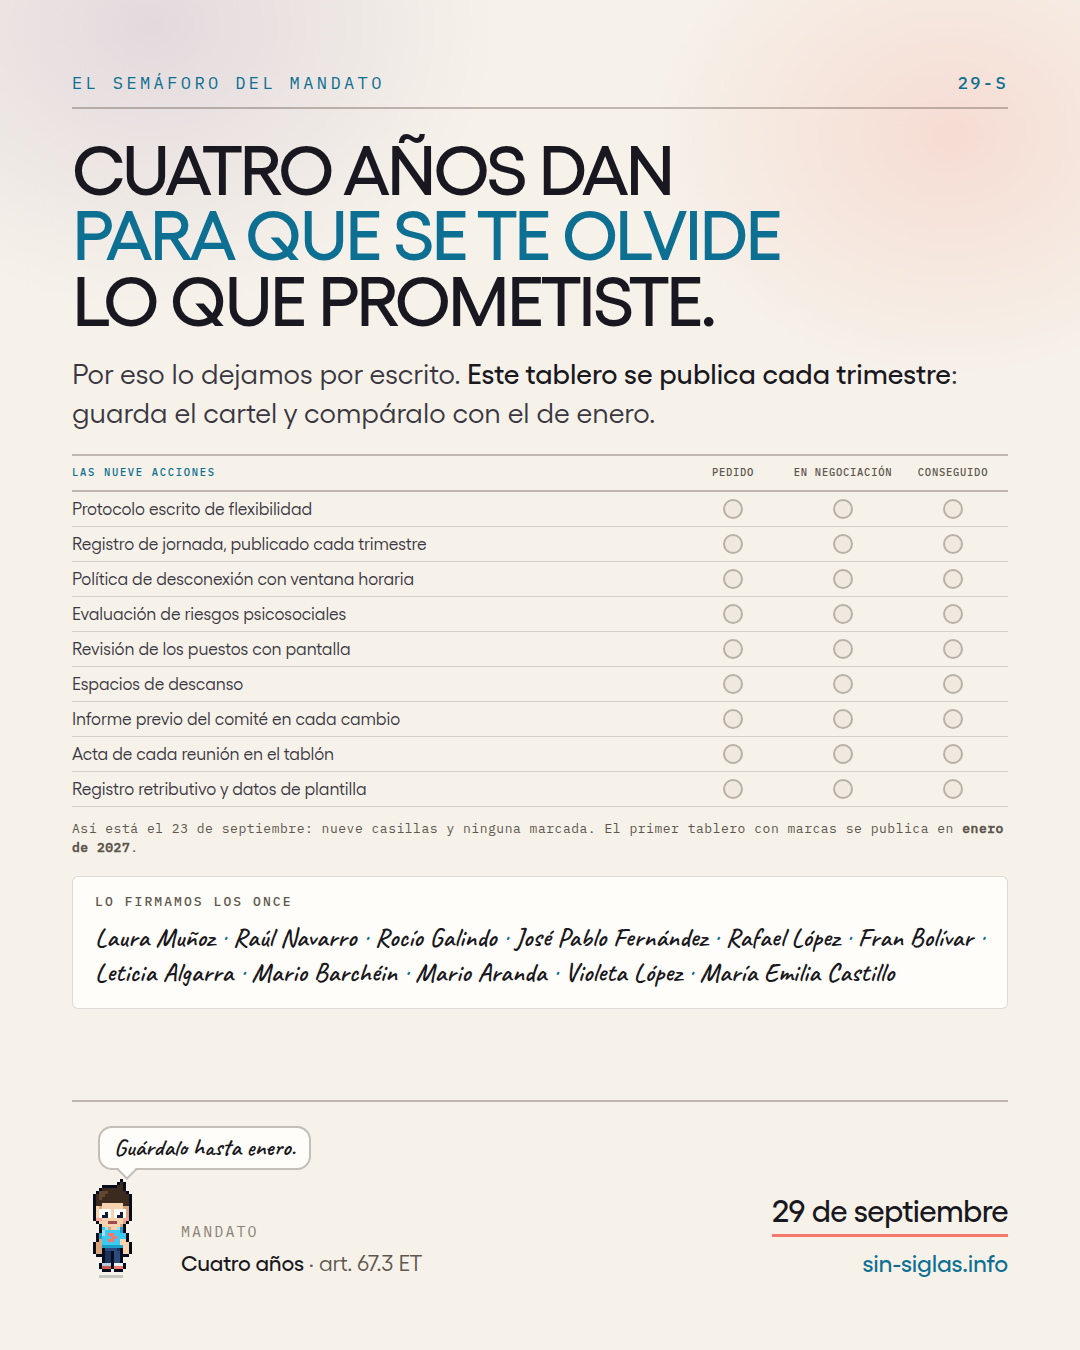
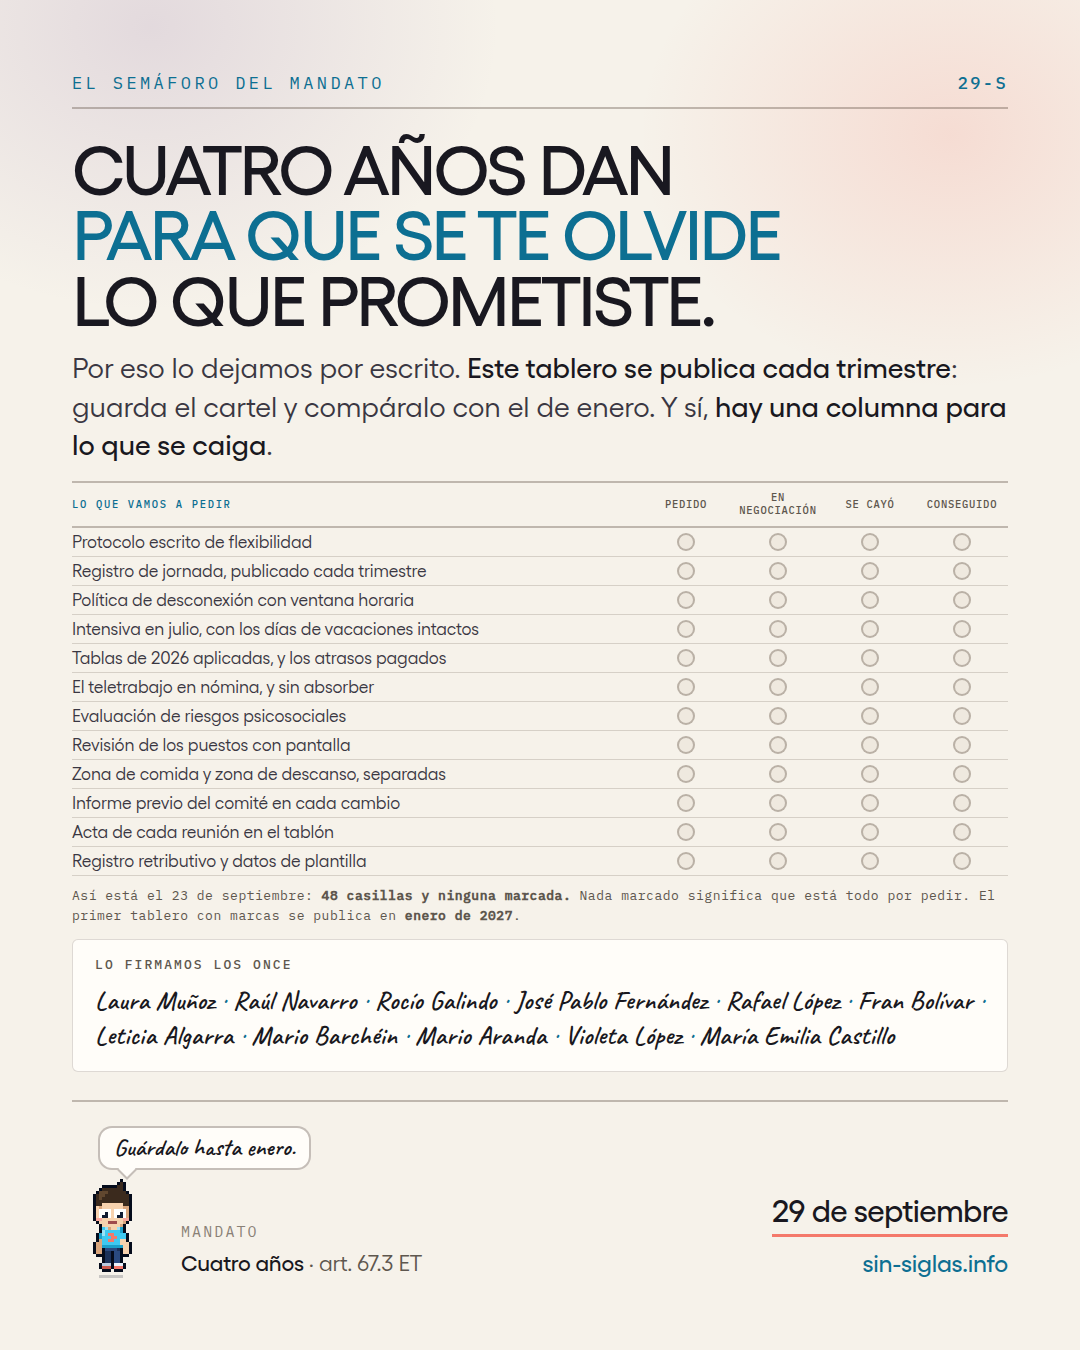
El semáforo, bien contado y con la columna del fracaso
Cuatro fallos en la única pieza que es un contrato:

- Decía «nueve casillas y ninguna marcada». Eran nueve filas por tres
  columnas: veintisiete. Contar mal aquí es lo último que se puede hacer.
- Tenía tres columnas y el apartado 4.2 especifica cuatro estados.
  Faltaba «se cayó», que es la que sostiene toda la tesis: un tablero sin
  columna para el fracaso es un folleto.
- Titulaba «las nueve acciones» y lo-que-pedimos lleva doce. Ahora la
  cabecera no lleva número y el número duro va en la leyenda.
- No tenía ni una fila de dinero, que es el tema de cinco de las once
  respuestas del buzón. En enero no se habría podido comprobar en lo
  único que la gente pidió.

Queda en cuatro columnas, doce filas, 48 casillas y ninguna marcada. Con
tres filas nuevas: las tablas de 2026 y sus atrasos, el teletrabajo en
nómina y sin absorber, y la intensiva de julio con los días de vacaciones
intactos. Y la bajada lo dice en voz alta: «y sí, hay una columna para lo
que se caiga».

Y una elegancia que sale de las cuatro columnas: nada marcado significa
que está todo por pedir, así que el cuarto estado del documento —«todavía
por pedir»— no necesita columna. Es la ausencia de marca.

Changed region(s): [[0.0611, 0.2489, 0.9472, 0.7778]]

diff --git a/carteles/carteles.html b/carteles/carteles.html
@@ -303,8 +303,8 @@ body.diptico .cartel.elegido + .cartel.elegido{box-shadow:inset 2px 0 0 var(--li
 /* 07 · el tablero del mandato y las firmas */
 .tablero{margin-top:22px;border-top:2px solid var(--linea-fuerte)}
 .fila{
-  display:grid;grid-template-columns:1fr repeat(3,110px);align-items:center;gap:0;
-  border-bottom:1px solid var(--linea);padding:7px 0
+  display:grid;grid-template-columns:1fr repeat(4,92px);align-items:center;gap:0;
+  border-bottom:1px solid var(--linea);padding:6px 0
 }
 .fila--cabeza{border-bottom:2px solid var(--linea-fuerte);padding:10px 0}
 .fila--cabeza span{
@@ -787,6 +787,18 @@ body.diptico .cartel.elegido + .cartel.elegido{box-shadow:inset 2px 0 0 var(--li
 #c24 .limite{margin-top:48px}
 #c24 .recibo{margin-top:32px}
 #c24 .pie{margin-top:auto}
+
+/* 07 · con la cuarta columna y las tres filas nuevas el tablero va al
+   ras. Lo que cede son los huecos, no el cuerpo: este cartel se guarda
+   para compararlo en enero, así que tiene que poder leerse en papel */
+#c7 .bajada{margin-top:16px}
+#c7 .tablero{margin-top:16px}
+#c7 .fila{padding:4px 0}
+#c7 .fila--cabeza{padding:8px 0}
+#c7 .fila i{width:18px;height:18px}
+#c7 .leyenda{margin-top:10px}
+#c7 .firmas{margin-top:14px}
+#c7 .pie{margin-top:auto}
 </style>
 </head>
 <body>
@@ -2292,26 +2304,30 @@ body.diptico .cartel.elegido + .cartel.elegido{box-shadow:inset 2px 0 0 var(--li
 
   <h1 class="titular titular--largo">Cuatro años dan<em>para que se te olvide</em>lo que prometiste.</h1>
   <p class="bajada bajada--ancha">
-    Por eso lo dejamos por escrito. <b>Este tablero se publica cada trimestre</b>: guarda el
-    cartel y compáralo con el de enero.
+    Por eso lo dejamos por escrito. <b>Este tablero se publica cada trimestre</b>: guarda el cartel
+    y compáralo con el de enero. Y sí, <b>hay una columna para lo que se caiga</b>.
   </p>
 
   <div class="tablero">
     <div class="fila fila--cabeza">
-      <span>Las nueve acciones</span><span>Pedido</span><span>En negociación</span><span>Conseguido</span>
+      <span>Lo que vamos a pedir</span><span>Pedido</span><span>En negociación</span><span>Se cayó</span><span>Conseguido</span>
     </div>
-    <div class="fila"><b>Protocolo escrito de flexibilidad</b><i></i><i></i><i></i></div>
-    <div class="fila"><b>Registro de jornada, publicado cada trimestre</b><i></i><i></i><i></i></div>
-    <div class="fila"><b>Política de desconexión con ventana horaria</b><i></i><i></i><i></i></div>
-    <div class="fila"><b>Evaluación de riesgos psicosociales</b><i></i><i></i><i></i></div>
-    <div class="fila"><b>Revisión de los puestos con pantalla</b><i></i><i></i><i></i></div>
-    <div class="fila"><b>Espacios de descanso</b><i></i><i></i><i></i></div>
-    <div class="fila"><b>Informe previo del comité en cada cambio</b><i></i><i></i><i></i></div>
-    <div class="fila"><b>Acta de cada reunión en el tablón</b><i></i><i></i><i></i></div>
-    <div class="fila"><b>Registro retributivo y datos de plantilla</b><i></i><i></i><i></i></div>
+    <div class="fila"><b>Protocolo escrito de flexibilidad</b><i></i><i></i><i></i><i></i></div>
+    <div class="fila"><b>Registro de jornada, publicado cada trimestre</b><i></i><i></i><i></i><i></i></div>
+    <div class="fila"><b>Política de desconexión con ventana horaria</b><i></i><i></i><i></i><i></i></div>
+    <div class="fila"><b>Intensiva en julio, con los días de vacaciones intactos</b><i></i><i></i><i></i><i></i></div>
+    <div class="fila"><b>Tablas de 2026 aplicadas, y los atrasos pagados</b><i></i><i></i><i></i><i></i></div>
+    <div class="fila"><b>El teletrabajo en nómina, y sin absorber</b><i></i><i></i><i></i><i></i></div>
+    <div class="fila"><b>Evaluación de riesgos psicosociales</b><i></i><i></i><i></i><i></i></div>
+    <div class="fila"><b>Revisión de los puestos con pantalla</b><i></i><i></i><i></i><i></i></div>
+    <div class="fila"><b>Zona de comida y zona de descanso, separadas</b><i></i><i></i><i></i><i></i></div>
+    <div class="fila"><b>Informe previo del comité en cada cambio</b><i></i><i></i><i></i><i></i></div>
+    <div class="fila"><b>Acta de cada reunión en el tablón</b><i></i><i></i><i></i><i></i></div>
+    <div class="fila"><b>Registro retributivo y datos de plantilla</b><i></i><i></i><i></i><i></i></div>
   </div>
-  <p class="leyenda">Así está el 23 de septiembre: nueve casillas y ninguna marcada. El primer
-    tablero con marcas se publica en <b>enero de 2027</b>.</p>
+  <p class="leyenda">Así está el 23 de septiembre: <b>48 casillas y ninguna marcada.</b> Nada
+    marcado significa que está todo por pedir. El primer tablero con marcas se publica en
+    <b>enero de 2027</b>.</p>
 
   <div class="firmas">
     <h4>Lo firmamos los once</h4>

diff --git a/carteles/ESTRATEGIA.md b/carteles/ESTRATEGIA.md
@@ -104,6 +104,29 @@ publicaremos cada trimestre durante los cuatro años: cada acción de los tres c
 El cartel muestra el tablero **con todo en gris**, tal y como está el día 23: nada pedido
 todavía. Convierte *«os iremos contando»* en un objeto que se puede comparar con el de enero.
 
+**Y estuvo mal contado y mal montado hasta el 9 de septiembre.** Cuatro cosas, y las cuatro
+importan en la única pieza que es un contrato:
+
+1. Decía «**nueve casillas** y ninguna marcada». Eran nueve filas por tres columnas: **veintisiete
+   casillas**. Contar mal en el cartel-contrato es lo último que nos podemos permitir.
+2. Tenía **tres columnas** —pedido, en negociación, conseguido— cuando este apartado especifica
+   cuatro estados. **Faltaba «se cayó», que es justamente la que sostiene toda la tesis**: un
+   tablero sin columna para el fracaso es un folleto.
+3. Titulaba «**las nueve acciones**» y `lo-que-pedimos` lleva doce. Ahora la cabecera no lleva
+   número —«lo que vamos a pedir»— y el número duro va en la leyenda, que es donde se puede
+   comprobar.
+4. **No tenía ni una fila de dinero**, que es el tema de cinco de las once respuestas del buzón. En
+   enero el tablero no se habría podido comprobar en lo único que la gente pidió.
+
+Como queda: **cuatro columnas, doce filas, 48 casillas** y ninguna marcada. Con tres filas nuevas
+—las tablas de 2026 y sus atrasos, la compensación de teletrabajo en nómina y sin absorber, y la
+intensiva de julio con los días de vacaciones intactos— y la bajada diciendo en voz alta que **hay
+una columna para lo que se caiga**.
+
+Y una elegancia que sale de las cuatro columnas: **nada marcado significa que está todo por
+pedir**, así que el cuarto estado del apartado —«todavía por pedir»— no necesita columna. Es la
+ausencia de marca.
+
 ### 4.3 Compi
 
 La mascota ya existe, ya cae bien y es lo que hace que una pieza se reenvíe. Aparece en todos
